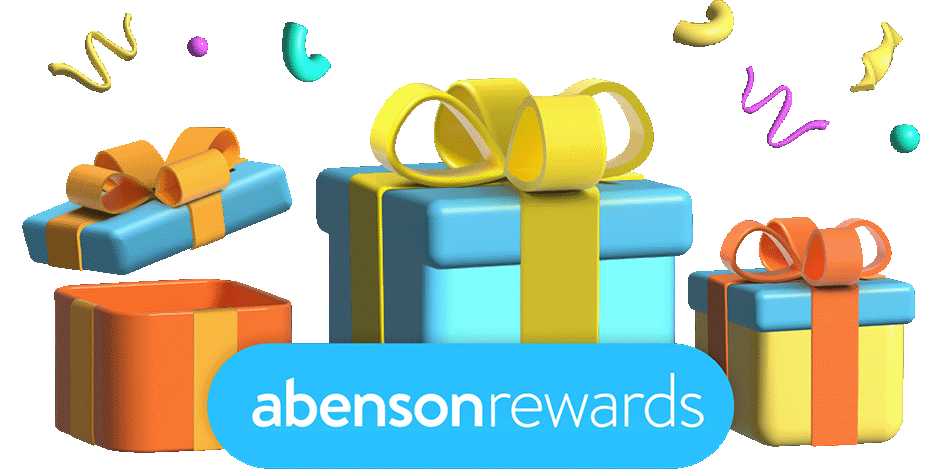
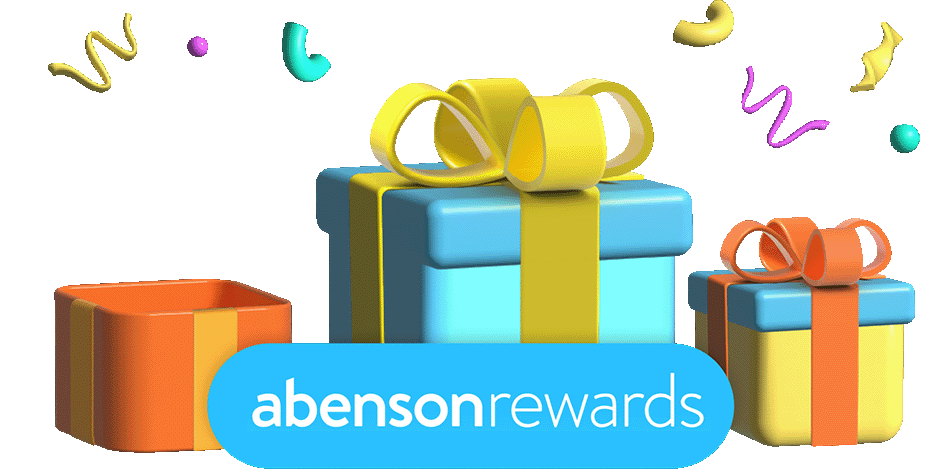
Added Minimal Scroll Transitions and an easter egg

Changed region(s): [[0.0, 0.2681, 0.3085, 0.5957]]

diff --git a/index.html b/index.html
@@ -23,7 +23,6 @@
     <link media="print" onload="this.media='all'"
         href="https://fonts.googleapis.com/css2?family=Poppins:ital,wght@0,100;0,200;0,300;0,400;0,500;0,600;0,700;0,800;0,900;1,100;1,200;1,300;1,400;1,500;1,600;1,700;1,800;1,900&display=swap"
         rel="stylesheet">
-    <!-- rel="preload" -->
 </head>
 
 <body>
@@ -316,47 +315,47 @@
                 </div>
             </div>
 
-            <p class="section-text subtext">
+            <p class="section-text subtext" data-animation="fadeIn">
                 Our growing network of 140+ stores nationwide and online superstore abenson.com provides convenient
                 access to a wide range of products and services
             </p>
 
             <a href="https://www.abenson.com/about-us" class="section-button" target="_blank"
-                aria-label="Read more about Abenson">About Abenson</a>
+                aria-label="Read more about Abenson" data-animation="fadeIn">About Abenson</a>
         </section>
 
         <!-- Why Join Us Section -->
         <section id="wju-section">
-            <h1 class="section-title">Why Join Us?</h1>
+            <h1 class="section-title" data-animation="fadeIn">Why Join Us?</h1>
 
             <div class="wju-container">
-                <div class="wju-item">
+                <div class="wju-item" data-animation="fadeIn" data-delay="100">
                     <img src="/images/wju_img/wju_1.svg" alt="Number 1 in Appliances" class="wju-item-img"
                         loading="lazy">
                     <h2>#1 in Appliances</h2>
                     <p class="p-subtext">Grow your career with the Leader. Let’s bring happiness together through
                         technology. </p>
                 </div>
-                <div class="wju-item">
+                <div class="wju-item" data-animation="fadeIn" data-delay="300">
                     <img src="/images/wju_img/wju_2.svg" alt="Number 1 in Appliances" class="wju-item-img"
                         loading="lazy">
                     <h2>Awesome Compensation and Benefits</h2>
                     <p class="p-subtext">Enjoy good compensation package and exciting benefits.</p>
                 </div>
-                <div class="wju-item">
+                <div class="wju-item" data-animation="fadeIn" data-delay="600">
                     <img src="/images/wju_img/wju_3.svg" alt="Number 1 in Appliances" class="wju-item-img"
                         loading="lazy">
                     <h2>Strong Values Culture</h2>
                     <p class="p-subtext">Values are important to us. Service and Leadership guides our culture.</p>
                 </div>
-                <div class="wju-item">
+                <div class="wju-item" data-animation="fadeIn" data-delay="900">
                     <img src="/images/wju_img/wju_4.svg" alt="Number 1 in Appliances" class="wju-item-img"
                         loading="lazy">
                     <h2>A Leader in Digital</h2>
                     <p>Abenson.com is the number one Filipino eRetailer. We are a winning team that continues to
                         innovate.</p>
                 </div>
-                <div class="wju-item">
+                <div class="wju-item" data-animation="fadeIn" data-delay="1000">
                     <img src="/images/wju_img/wju_5.svg" alt="Number 1 in Appliances" class="wju-item-img"
                         loading="lazy">
                     <h2>#1 in Appliances</h2>
@@ -369,9 +368,9 @@
 
         <!-- Meet Our Teams Section -->
         <section id="teams-section">
-            <h1 class="section-title">Meet Our Teams</h1>
+            <h1 class="section-title" data-animation="fadeIn">Meet Our Teams</h1>
 
-            <div class="teams-container">
+            <div class="teams-container" data-animation="fadeIn">
                 <div class="teams-item">
                     <img src="/images/teams_img/team_1.svg" alt="UI/UX Teams" class="teams-img" loading="lazy">
                     <h2>UI/UX</h2>
@@ -417,21 +416,22 @@
                 </div>
             </div>
 
-            <p class="sub-text section-text">
+            <p class="sub-text section-text" data-animation="fadeIn">
                 At Abenson, we're more than just a company. We're a community of innovators, problem-solvers, and
                 dreamers. Join our growing team and make a lasting impact.
             </p>
-            <a href="https://www.youtube.com/watch?v=dQw4w9WgXcQ" class="section-button" target="_blank">Explore
+            <a href="https://www.youtube.com/watch?v=dQw4w9WgXcQ" class="section-button" target="_blank"
+                data-animation="fadeIn">Explore
                 Teams</a>
         </section>
 
         <!-- Job List Section -->
         <section id="job-list-section">
-            <h1 class="section-title">Featured Job Openings</h1>
+            <h1 class="section-title" data-animation="fadeIn">Featured Job Openings</h1>
             <div class="jl-toggle">
                 <input type="checkbox" id="toggle-container" class="toggle-checkbox">
                 <label for="toggle-container" class="toggle-label"></label>
-                <div class="jl-container">
+                <div class="jl-container" data-animation="fadeIn">
                     <div class="jl-item">
                         <h2>CORPORATE SALES SPECIALIST</h2>
                         <div>
@@ -479,12 +479,14 @@
 
         </section>
 
+        <!-- Contact Section -->
         <section id="contact-section">
-            <div class="contact-header">
+            <div class="contact-header" data-animation="fadeIn">
                 <h1 class="section-title">Not on the List?</h1>
                 <p class="sub-text">Send us your resume here!</p>
             </div>
-            <form class="contact-form" action="">
+
+            <form class="contact-form" action="" data-animation="fadeIn">
                 <div>
                     <input type="text" id="name" pattern="[A-Za-zÀ-ÖØ-öø-ÿ\s'-]+" placeholder=" " required>
                     <label for="name" id="name">Name</label>
@@ -501,13 +503,13 @@
             </form>
         </section>
 
-
+        <!--  -->
         <section id="socials-section">
             <hr>
-            <h1 class="section-title">Follow Us</h1>
+            <h1 class="section-title" data-animation="fadeIn">Follow Us</h1>
             <div class="socials-container">
                 <a href="https://www.facebook.com/abensonappliances/" class="socials-item" target="_blank"
-                    aria-label="Abenson on Facebook">
+                    aria-label="Abenson on Facebook" data-animation="fadeIn">
                     <svg width="45" height="44" viewBox="0 0 45 44" fill="none" xmlns="http://www.w3.org/2000/svg"
                         xmlns:xlink="http://www.w3.org/1999/xlink">
                         <rect x="0.5" width="44" height="44" fill="url(#pattern0_15_5160)" />
@@ -526,7 +528,7 @@
                     </div>
                 </a>
                 <a href="https://ph.jobstreet.com/companies/abenson-168555984227140" class="socials-item"
-                    aria-label="Abenson on Jobstreet" target="_blank">
+                    aria-label="Abenson on Jobstreet" target="_blank" data-animation="fadeIn" data-delay="200">
                     <svg width="45" height="44" viewBox="0 0 45 44" fill="none" xmlns="http://www.w3.org/2000/svg"
                         xmlns:xlink="http://www.w3.org/1999/xlink">
                         <rect x="0.5" width="44" height="44" fill="url(#pattern0_15_5163)" />
@@ -546,7 +548,7 @@
                     </div>
                 </a>
                 <a href="https://www.linkedin.com/company/abenson/?originalSubdomain=ph" class="socials-item"
-                    aria-label="Abenson on Linkedin" target="_blank">
+                    aria-label="Abenson on Linkedin" target="_blank" data-animation="fadeIn" data-delay="400">
                     <svg width="45" height="44" viewBox="0 0 45 44" fill="none" xmlns="http://www.w3.org/2000/svg"
                         xmlns:xlink="http://www.w3.org/1999/xlink">
                         <rect x="0.5" width="44" height="44" fill="url(#pattern0_15_5166)" />
@@ -596,6 +598,12 @@
                             <img src="/images/footer_img/footer_mobile_banner.png" alt="Abenson Rewards"
                                 class="footer-banner-img" loading="lazy">
                         </picture>
+
+                        <img src="images/footer_img/gift_cover.webp" alt="gift cover for banner" width="258"
+                            height="137" class="footer-banner-img-cover">
+
+                        <img src="images/footer_img/banner_confetti.webp" width="940" height="199" alt="banner confetti"
+                            class="footer-banner-img-confetti">
                     </a>
 
                     <div>
@@ -965,3 +973,5 @@
 </body>
 
 </html>
+
+<script src="script.js" defer></script>

diff --git a/styles.css b/styles.css
@@ -12,7 +12,7 @@
   --max-vw: 87.5rem;
   --main-padding: 0 1.875rem;
   --main-border-radius: 1.25rem;
-  --p-font-size: clamp(0.9rem, 1.8vw, 1rem);
+  --p-font-size: 1rem;
   --dropdown-transition: 0.5s ease-out;
   --hover-on-blue-bg: rgba(0, 0, 0, 0.3);
   --popup-radius: 0.93rem;
@@ -26,20 +26,29 @@
     transform: translateY(0); /* Start position */
   }
   50% {
-    transform: translateY(-0.3rem); /* Move up */
+    transform: translateY(-0.5rem); /* Move up */
   }
   100% {
     transform: translateY(0); /* Back to start */
   }
 }
 
-@keyframes slideIn {
-  0% {
-    top: -100%; /* Start from above the container */
+@keyframes fadeIn {
+  from {
+    opacity: 0;
   }
-  100% {
-    top: 0; /* End at the normal position */
+  to {
+    opacity: 1;
   }
+}
+
+.hidden {
+  opacity: 0;
+  transform: translateY(20px);
+}
+
+.animate-fadeIn {
+  animation: fadeIn 0.5s ease-in-out;
 }
 
 * {
@@ -1151,7 +1160,7 @@ footer label,
 footer a,
 footer p {
   color: var(--white-color);
-  font-size: 0.9rem;
+  font-size: 0.8rem;
   font-weight: 300;
 }
 
@@ -1381,6 +1390,9 @@ footer div:first-child > form {
   border-radius: 2rem;
   margin-top: 1rem;
 }
+
+.footer-banner-img-confetti,
+.footer-banner-img-cover,
 #footer-contacts-see-more,
 .footer-third-last-child div hr,
 .f-contacts-hide,
@@ -1457,12 +1469,36 @@ footer div:first-child > form {
     text-decoration: none;
   }
 
-  .footer-banner-img {
+  /* .footer-banner-img {
     animation: moveUpDown 3s ease-in-out infinite;
-  }
+  } */
 
+  .footer-banner-img-confetti,
+  .footer-banner-img-cover,
   .footer-third-last-child div hr {
     display: block;
+  }
+
+  .footer-banner-img-confetti {
+    position: absolute;
+    width: 28rem;
+    height: auto;
+    top: 1.5rem;
+    animation: moveUpDown 1.2s ease-in-out infinite;
+  }
+
+  .footer-banner-img-cover {
+    position: absolute;
+    width: 7.5rem;
+    height: auto;
+    top: 8.5rem;
+    left: 1rem;
+    /* animation: moveUpDown 3s ease-in-out infinite; */
+    transition: transform 0.3s ease;
+  }
+
+  .footer-banner-img-cover:hover {
+    transform: rotate(-10deg) translate(-10px, -40px);
   }
 
   .footer-main > div:nth-child(1) {

diff --git a/script.js b/script.js
@@ -1,0 +1,45 @@
+//  This script is for the scroll transition of elements.
+//  It adds the 'hidden' class to all elements with the 'data-animation' attribute,
+//  and uses IntersectionObserver to detect when they enter the viewport and apply the appropriate animation class.
+//  hidden class is automatically added in an element where 'data-animation' attribute is present
+//  hidden class properties are predefined in css
+
+//  A CSS alternative to do this is using scroll-time where we have
+//  scroll() and view() functions. Unfortunately, this is not  yet supported by all browsers
+
+//  I deferred this script to achieve faster load times for better core metrics.
+function handleAnimation(entries) {
+  entries.forEach((entry) => {
+    if (entry.isIntersecting) {
+      const target = entry.target;
+      const animationType = target.dataset.animation;
+      const delay = target.dataset.delay || "0s"; // Default to 0s if no delay specified
+      const duration = target.dataset.duration || "1s"; // Default to 1s if no duration specified
+
+      // Remove the hidden class to make the element visible
+      target.classList.remove("hidden");
+
+      // Set the animation delay and duration styles
+      target.style.animationDelay = delay;
+      target.style.animationDuratibrowserson = duration;
+
+      // Add the appropriate animation class
+      target.classList.add("animate-" + animationType);
+    }
+  });
+}
+
+const observer = new IntersectionObserver(handleAnimation, {
+  root: null, // Use the viewport as the root
+  rootMargin: "0px 0px -10% 0px",
+  threshold: 0,
+});
+
+// Observe all elements with 'data-animation' attribute
+document.querySelectorAll("[data-animation]").forEach((element) => {
+  // Initially apply the hidden class
+  element.classList.add("hidden");
+  observer.observe(element);
+});
+
+// Transition script written by Benzzzz
